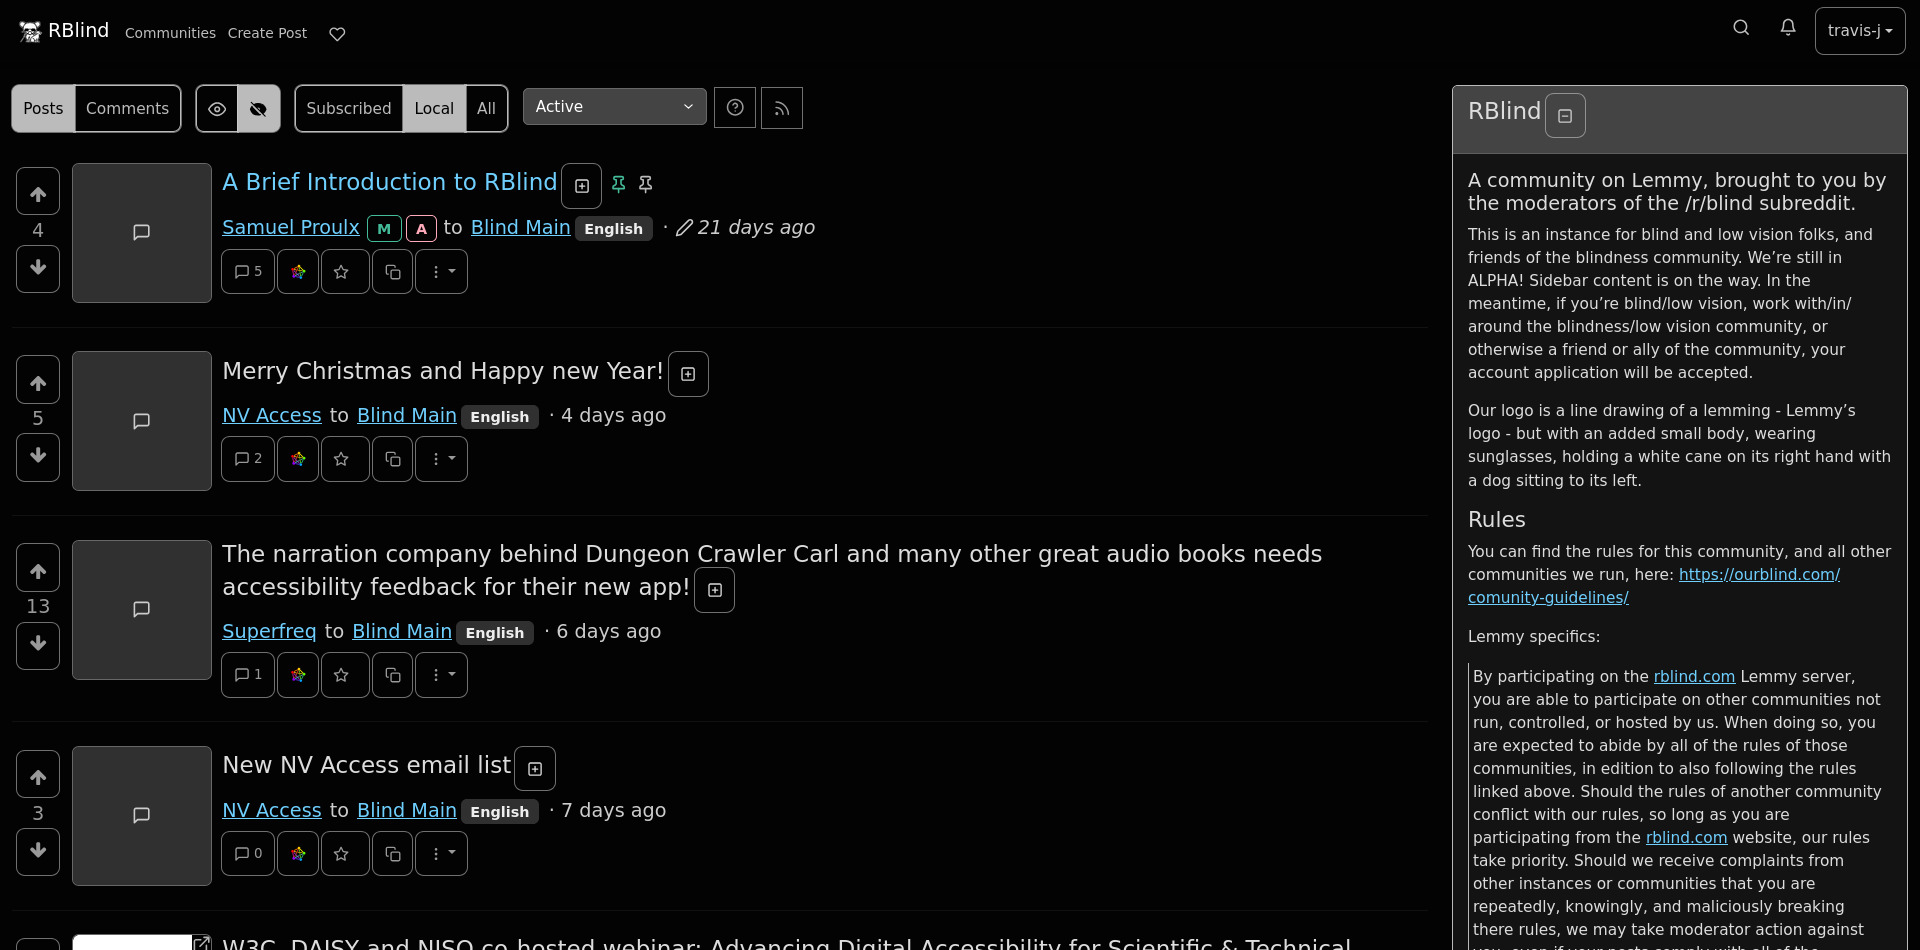
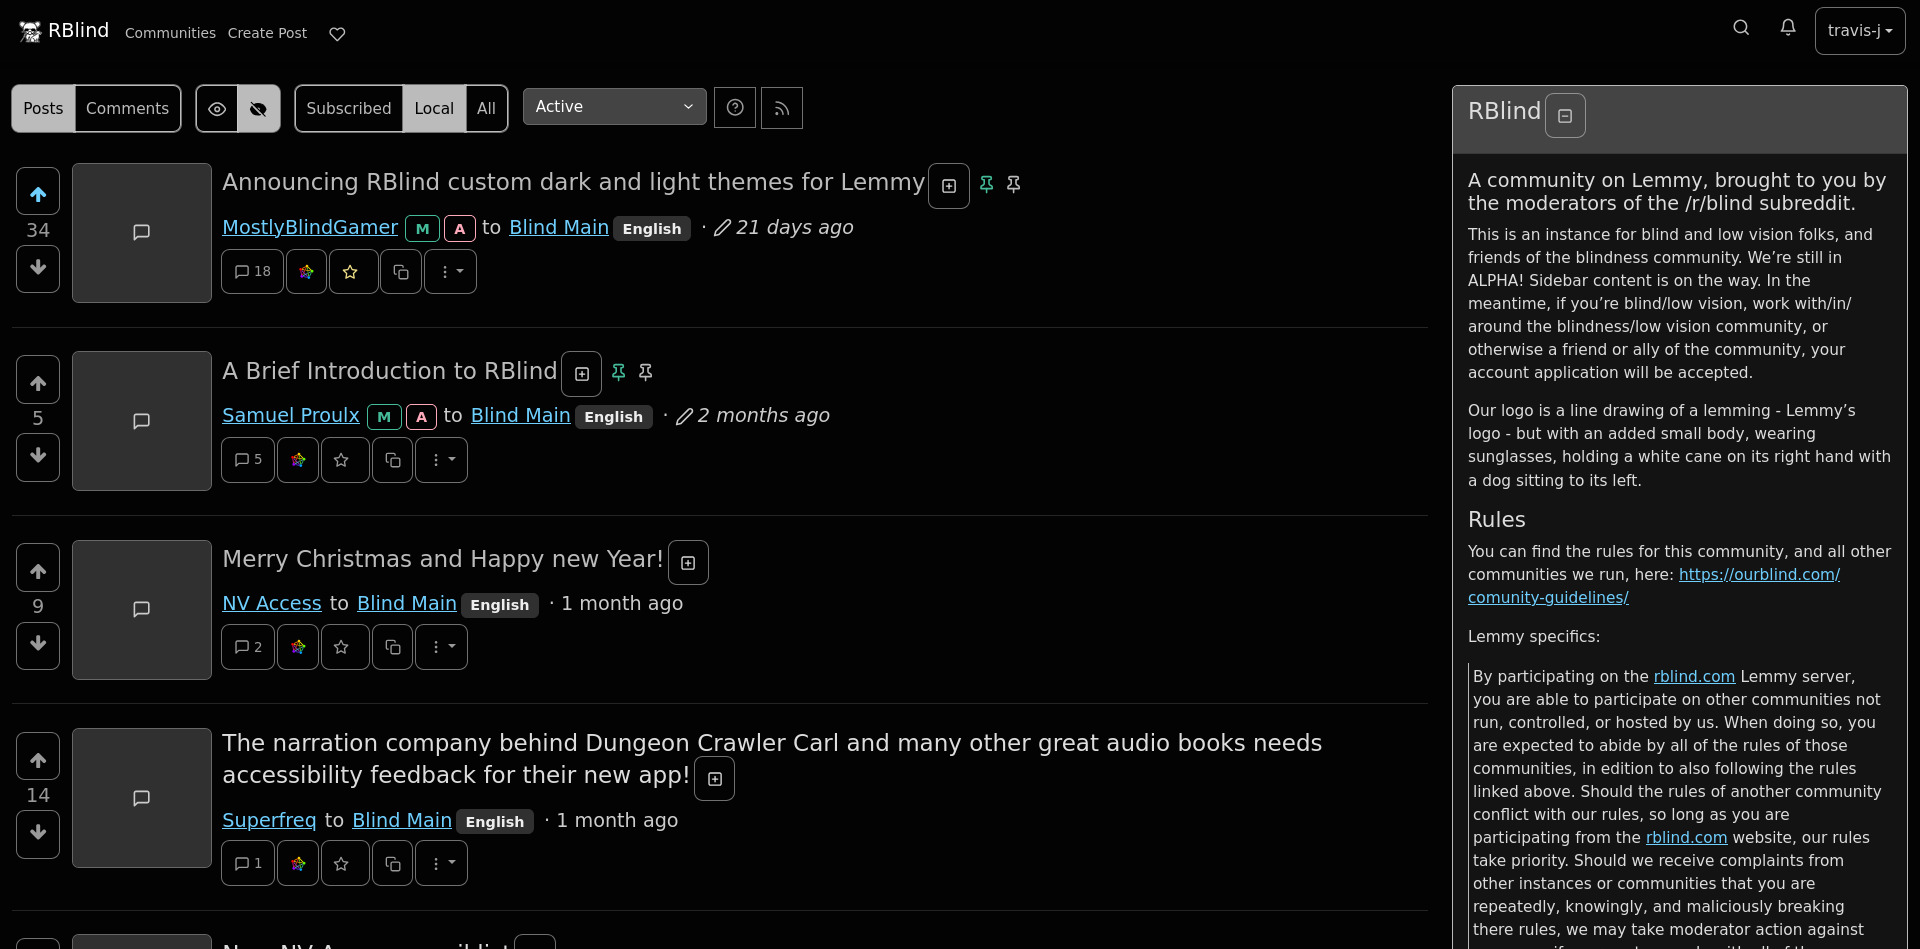
Updated the Changelog with the latest date and updated the screenshots of home and comments to show the dividers and OP marker.

diff --git a/CHANGELOG.md b/CHANGELOG.md
@@ -1,12 +1,13 @@
 # Changelog
 
-## 2025-01-17
+## 2025-01-27
 
 ### 1.0.2
 
 - Improved contrast on post and comment dividers
 - Added advice to handle theme variable conflicts under Limitations, External Style Sheets
 - Changed the Original Poster (OP) marker to be a lighter colour to distinguish it from the poster name colour
+- Updated screenshots of home and comments to show the dividers and OP marker change
 
 ## 2025-01-10
 
